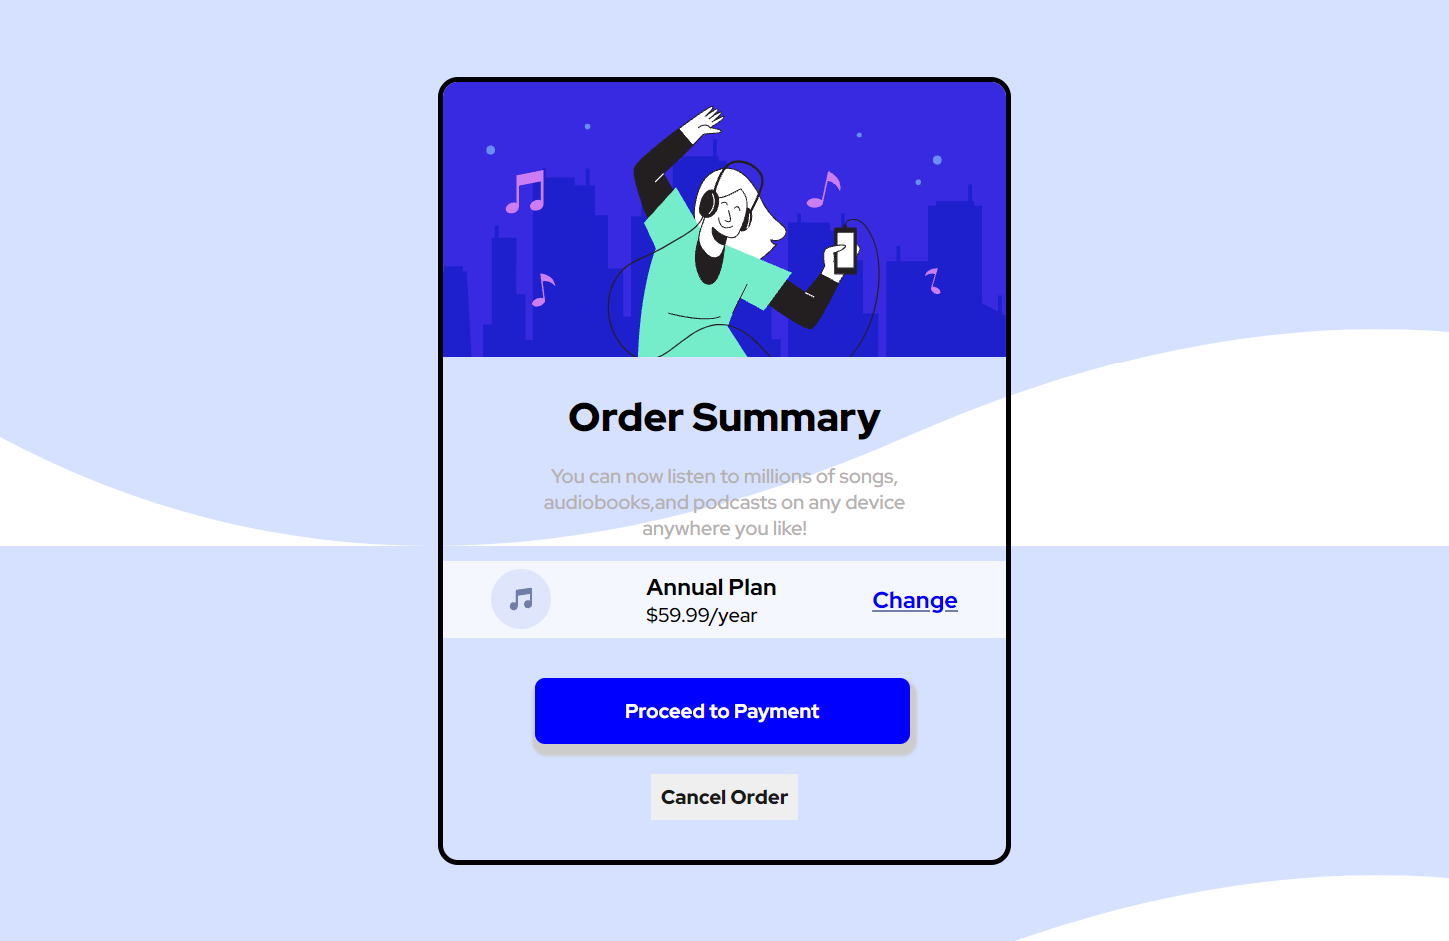
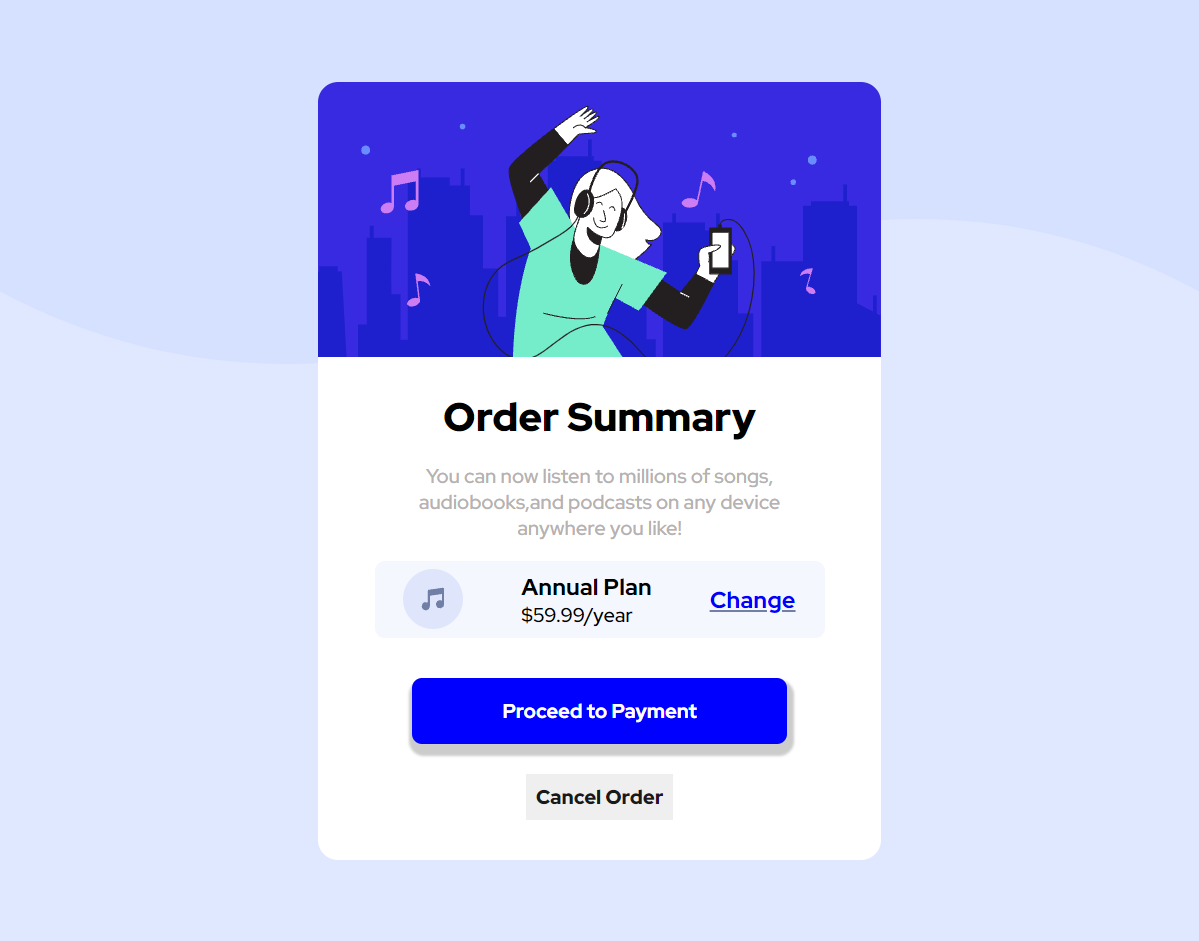
changed the background style in css file

diff --git a/style.css b/style.css
@@ -7,6 +7,7 @@ html{
     height: 100%;
 }
 body{
+   
    margin: 0;
    padding: 0;
    height: 100%;
@@ -14,16 +15,26 @@ body{
    display: flex;
    justify-content: center;
    align-items: center;
-   background: url(pattern-background-desktop.svg); /*unable to style the background please tell how to do it */
+   background-color: hsl(225, 100%, 94%);
+   background-image: url("pattern-background-desktop.svg");
+   background-position:top;
+   background-size:100%;
+   background-repeat: no-repeat;
+   
+   
+  
+  
+   
    
 
 }
 
 .container{
    
-    border: 4px solid black;
+    border: none;
      border-radius: 16px;
      overflow: hidden;
+     background-color:white;
 }
 .title{
     text-align: center;
@@ -41,11 +52,13 @@ body{
   /*all about plans*/
 .container-2{
     background: hsl(225, 100%, 98%);
-
+    width: 80%;
+    margin: 0 auto;
     display: flex;
     align-items: center;
     justify-content: space-around;
     margin-bottom: 32px;
+    border-radius: 8px;
 
 }
 .plan{
@@ -76,8 +89,6 @@ body{
 
 }
 .payment{
-    position: relative;
-    left: 73px;
     display: block;
     font-size: 16px;
     font-weight: 700;
@@ -87,6 +98,7 @@ body{
     outline: none;
     padding: 16px;
     width: 300px;
+    margin: 0 auto;
     border-radius: 8px;
     margin-bottom: 24px;
     box-shadow: 2px 6px 2px 4px #ccc;
@@ -113,9 +125,9 @@ cursor: pointer;
         border: none;
         border-radius: 0px;
     }
-    .payment{
-        left: 45px;
-    }
+   
+   
+   
 }
 
 

diff --git a/README-.md b/README-.md
@@ -17,7 +17,7 @@ This is a solution to the [Order summary card challenge on Frontend Mentor](http
 
 
 ## Overview
- i made the project using css flexbox to practice it but faced some problems like when i added flex to buttons container it occupied the whole width of container and then i had to set it using /*position:relative*/ and also i am not able to set the background in the desired way.  
+ i made the project using css flexbox to practice it but faced some problems like when i added flex to buttons container it occupied the whole width of container and then i had to set it using /*position:relative*/ .Is there any other way to do it. 
 
 ### The challenge
 
